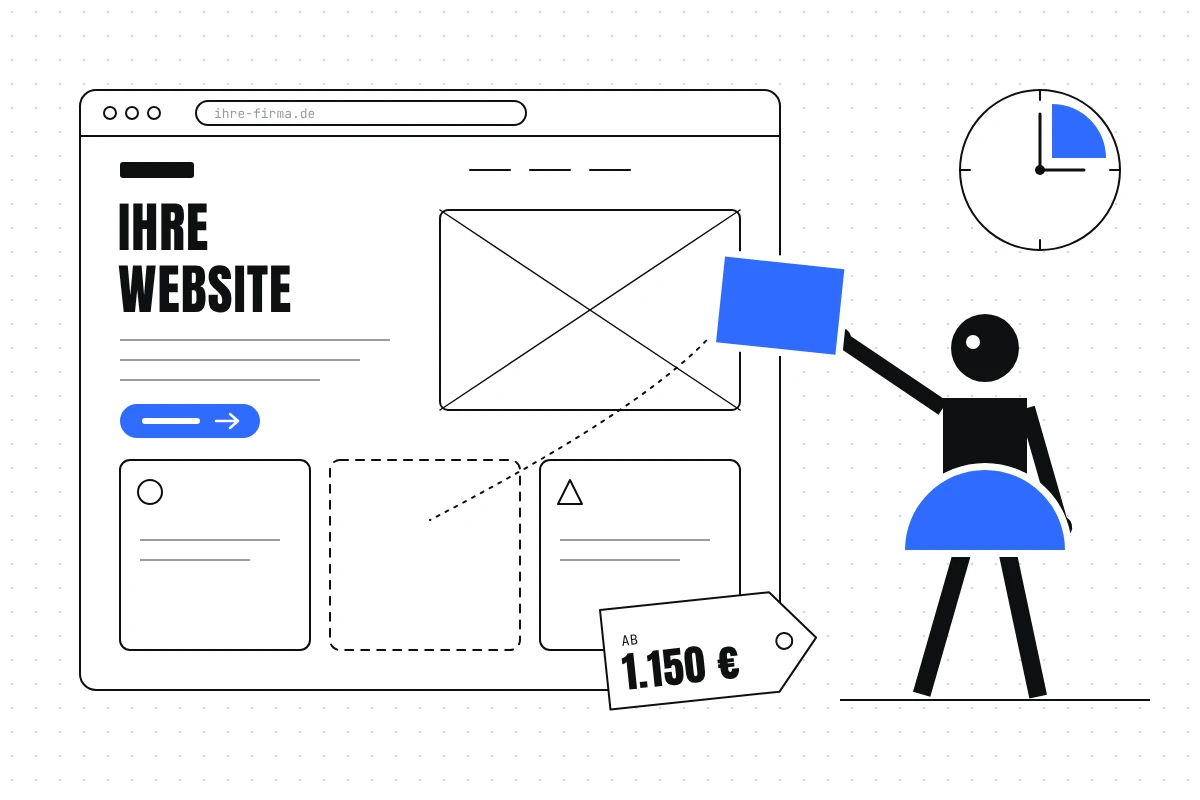
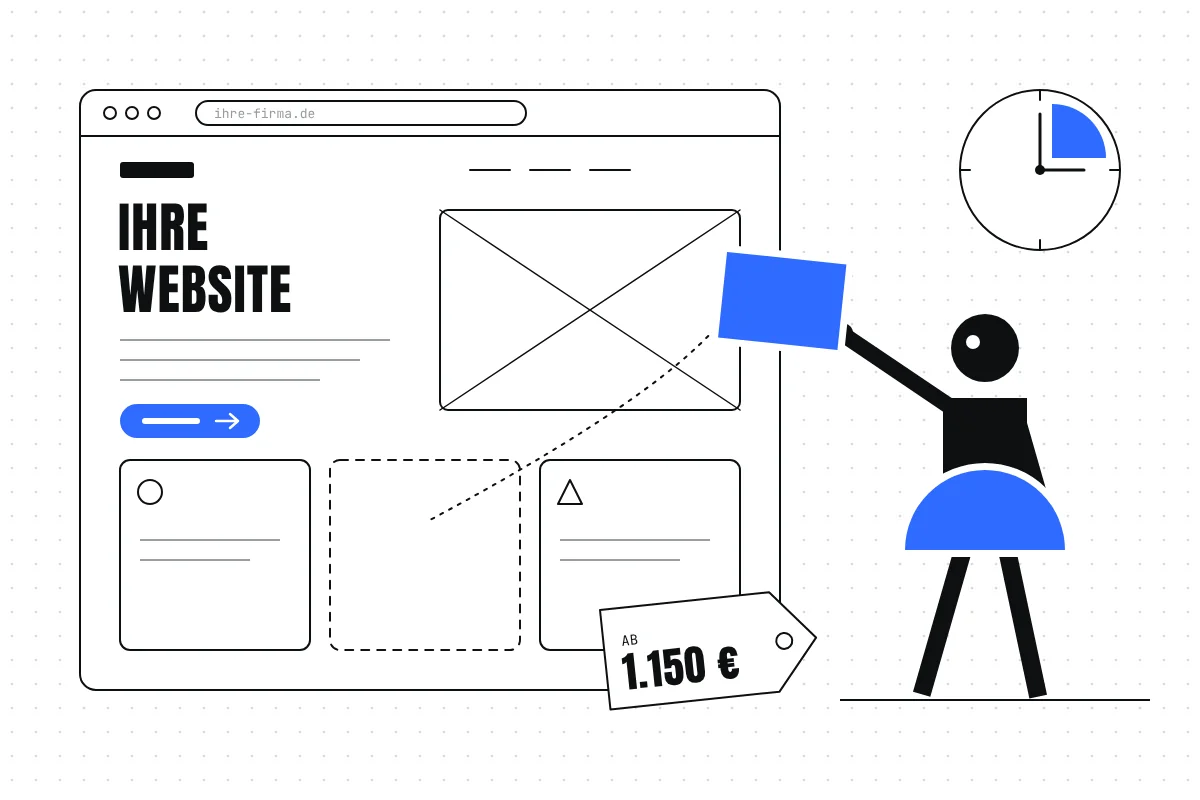
Figur: Arme sitzen direkt am Rumpf ohne Abstand (Annas Vorgabe); Titel- und Vorschaubild des Beitrags neu erzeugt
Claude-Session: https://claude.ai/code/session_01DgHRh8FoC8rL4iNtf1G8sb

diff --git a/werkzeuge/grafiken/blog/geld-und-zeit-titel.py b/werkzeuge/grafiken/blog/geld-und-zeit-titel.py
@@ -6,6 +6,8 @@
 import math, os
 SCH, BL, WS, GR, MG = '#0e1011', '#2f6bff', '#fff', '#d6d8d9', '#9a9d9e'
 FUGE = 14  # sichtbar 7 px: bleibt auch in kleinen Vorschauen als Fuge erkennbar
+# Arme sitzen immer direkt am Rumpf, ohne Abstand (Anna, 13.10.2026): Drehpunkt innen im Rumpf, Arm entsprechend länger
+SCHULTER_X, SCHULTER_Y, ARM = 30, -290, 132
 
 def balken(sx, sy, w, laenge=120, breite=16, hand=True):
     t = f'<g transform="translate({sx} {sy}) rotate({w})"><rect x="{-breite/2}" y="0" width="{breite}" height="{laenge}" fill="{SCH}"/>'
@@ -18,7 +20,7 @@ def ende(sx, sy, w, laenge=120):
 def figur(arm_l, arm_r, bein_l, bein_r, blick=1):
     t = balken(-22, -150, bein_l, 150, 18, False) + balken(22, -150, bein_r, 150, 18, False)
     t += '<rect x="-42" y="-302" width="84" height="96" fill="%s"/>' % SCH
-    t += balken(-42, -292, arm_l) + balken(42, -292, arm_r)
+    t += balken(-SCHULTER_X, SCHULTER_Y, arm_l, ARM) + balken(SCHULTER_X, SCHULTER_Y, arm_r, ARM)
     t += f'<path d="M-80 -150 A80 80 0 0 1 80 -150 Z" fill="{BL}" stroke="{WS}" stroke-width="{FUGE}" paint-order="stroke"/>'
     t += f'<circle cx="0" cy="-352" r="34" fill="{SCH}"/><circle cx="{12*blick}" cy="-358" r="7" fill="{WS}"/>'
     return t
@@ -55,7 +57,7 @@ s.append(f'<g transform="translate(600 610) rotate(-6)"><path d="M0 0 H170 L212 
 s.append(f'<line x1="840" y1="700" x2="1150" y2="700" stroke="{SCH}" stroke-width="2"/>')
 fx, fy, k = 985, 700, 1.0
 s.append(f'<g transform="translate({fx} {fy}) scale({k})">' + figur(124, -16, 16, -12, blick=-1) + '</g>')
-hx, hy = ende(-42, -292, 124); hx, hy = fx + hx * k, fy + hy * k
+hx, hy = ende(-SCHULTER_X, SCHULTER_Y, 124, ARM); hx, hy = fx + hx * k, fy + hy * k
 s.append(f'<rect x="{hx-120}" y="{hy-76}" width="120" height="86" fill="{BL}" stroke="{WS}" stroke-width="{FUGE}" paint-order="stroke" transform="rotate(6 {hx-60} {hy-33})"/>')
 s.append(f'<path d="M{hx-134} {hy+2} Q{hx-205} {hy+75} 430 520" fill="none" stroke="{SCH}" stroke-width="2" stroke-dasharray="3 7" stroke-linecap="round"/>')
 s.append('</svg>')

diff --git a/CLAUDE.md b/CLAUDE.md
@@ -31,7 +31,7 @@
 - Kartenreihen: Unterzeilen, Listen und Buttons auf einer Linie; H1 nie breiter als die Seite.
 - Website-Screenshots kommen aus der Bildbibliothek `website/bilder/referenzen/` (1440 px breit).
 - Wiedererkennung (Anna, 13.10.2026), immer gleich einsetzen:
-  1. Eigene Figur aus Bauhaus-Grundformen nach Oskar Schlemmers Triadischem Ballett: Kopf Kreis mit weißem Auge, Rumpf Quadrat, blauer Halbkreis-Rock, Glieder als Balken; weiße Fugen statt Blau an Schwarz. Konstruktion in `werkzeuge/grafiken/blog/geld-und-zeit-titel.py`.
+  1. Eigene Figur aus Bauhaus-Grundformen nach Oskar Schlemmers Triadischem Ballett: Kopf Kreis mit weißem Auge, Rumpf Quadrat, blauer Halbkreis-Rock, Glieder als Balken; Arme sitzen immer direkt am Rumpf, ohne Abstand (Anna, 13.10.2026); weiße Fugen statt Blau an Schwarz. Konstruktion in `werkzeuge/grafiken/blog/geld-und-zeit-titel.py`.
   2. Ausrufe als Pointe („AAH!“, „OHO!“, „WOW!“), knallhart Schwarz-Weiß in Anton.
   3. Redaktioneller Rahmen: Linien mit Beschriftung, gedrehte Wörter am Rand, wiederholte Schriftbänder.
   4. Echte Fotos von Anna statt KI-Bilder: Schwarz-Weiß ausgeschnitten, kombiniert mit blauen Flächen.
